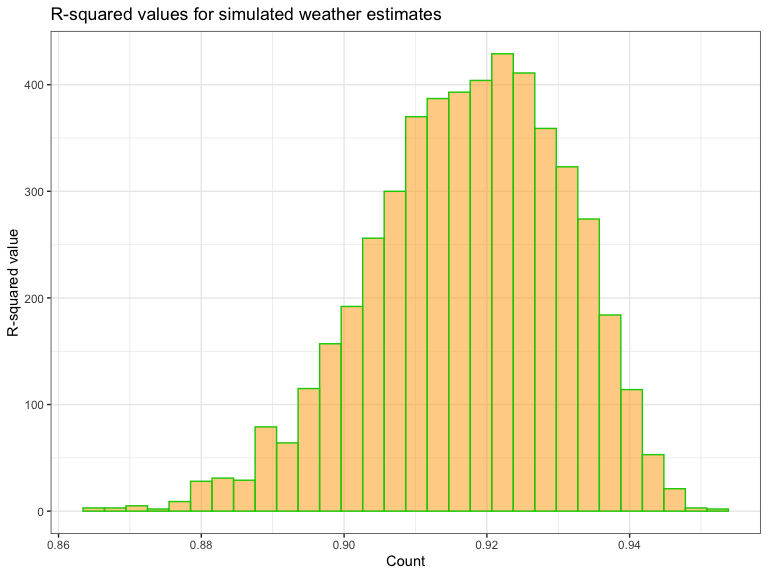
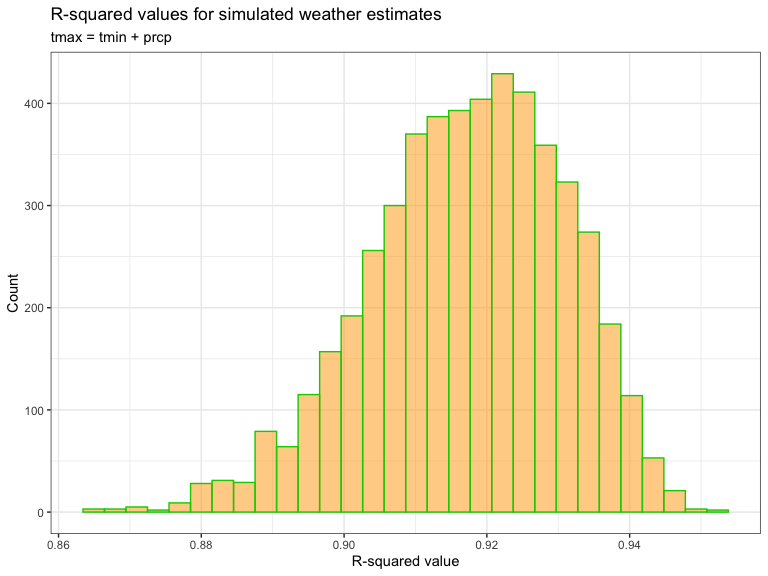
plot edits and calculating CI for estimates

diff --git a/p8105_hw6.md b/p8105_hw6.md
@@ -300,10 +300,13 @@ sim_estimates = weather_df |>
   mutate(
     models = map(strap, \(df) lm(tmax ~ tmin + prcp, data = df)),
     rsquared = map(models, ~ summary(.x)$r.squared), 
-    beta_product = map(models, ~ log(abs((coef(.x)["tmin"] * coef(.x)["prcp"]))))
+    beta_product = map(models, ~ (coef(.x)["tmin"] * coef(.x)["prcp"]))
   ) |> 
     unnest(c(rsquared, beta_product)) |>
-  select(.id, rsquared, beta_product) 
+  mutate(
+     logbeta = log(abs(beta_product)) 
+     )|>
+  select(.id, rsquared, beta_product, logbeta) 
 ```
 
 - Plot the distribution of your estimates, and describe these in words.
@@ -312,7 +315,9 @@ sim_estimates = weather_df |>
 plot_sim_estimates_r2 = sim_estimates  |> 
   ggplot(aes(x = rsquared)) +
     geom_histogram(fill = "orange", color = "green3" ,alpha = 0.5) +
-  labs(title = "R-squared values for simulated weather estimates", x = "Count", y = "R-squared value") +
+  labs(title = "R-squared values for simulated weather estimates", 
+       subtitle = "tmax = tmin + prcp", 
+       y = "Count", x = "R-squared value") +
     theme(
       panel.background = element_rect(fill = "grey95"), 
       axis.title = element_text(color = "black", size = 14), 
@@ -337,9 +342,11 @@ approximately normal. The median of the data is at 0.92.
 
 ``` r
 plot_sim_estimates_log = sim_estimates  |> 
-  ggplot(aes(x = beta_product)) +
+  ggplot(aes(x = logbeta)) +
     geom_histogram(fill = "purple3", color = "pink" ,alpha = 0.5) +
-  labs(title = "log(β̂1xβ̂2) values for simulated weather estimates", x = "Count", y = "log(β̂1xβ̂2)") +
+  labs(title = "log(β̂1xβ̂2) values for simulated weather estimates", 
+       subtitle = "tmax = tmin + prcp", 
+       y = "Count", x = "log(β̂1xβ̂2)") +
     theme(
       panel.background = element_rect(fill = "grey95"), 
       axis.title = element_text(color = "black", size = 14), 
@@ -368,6 +375,16 @@ left skew. The median of the data is at -5.56.
     regression, and
   - broom::tidy() (with some additional wrangling) should help in
     computing log(β̂1∗β̂2).
+
+``` r
+rsquared_logbeta_ci = sim_estimates |> 
+  mutate(
+    rsquared_lower = quantile(rsquared, 0.025, na.rm = TRUE),
+    rsquared_upper = quantile(rsquared, 0.975, na.rm = TRUE), 
+    logbeta_lower = quantile(logbeta, 0.0275, na.rm = TRUE), 
+    logbeta_upper = quantile(logbeta, 0.975, na.rm = TRUE)
+  )
+```
 
 #### Problem 3
 
